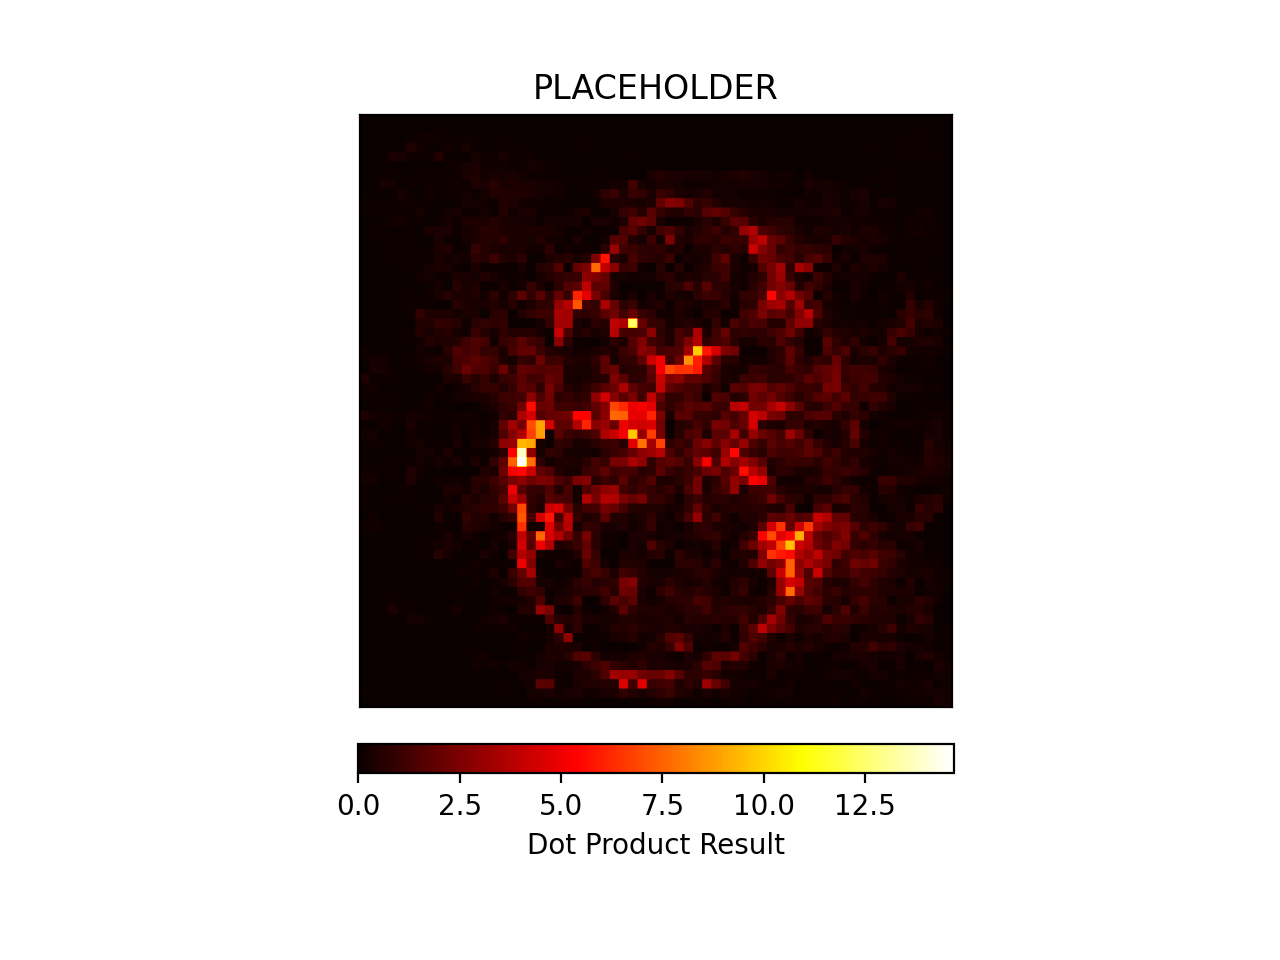
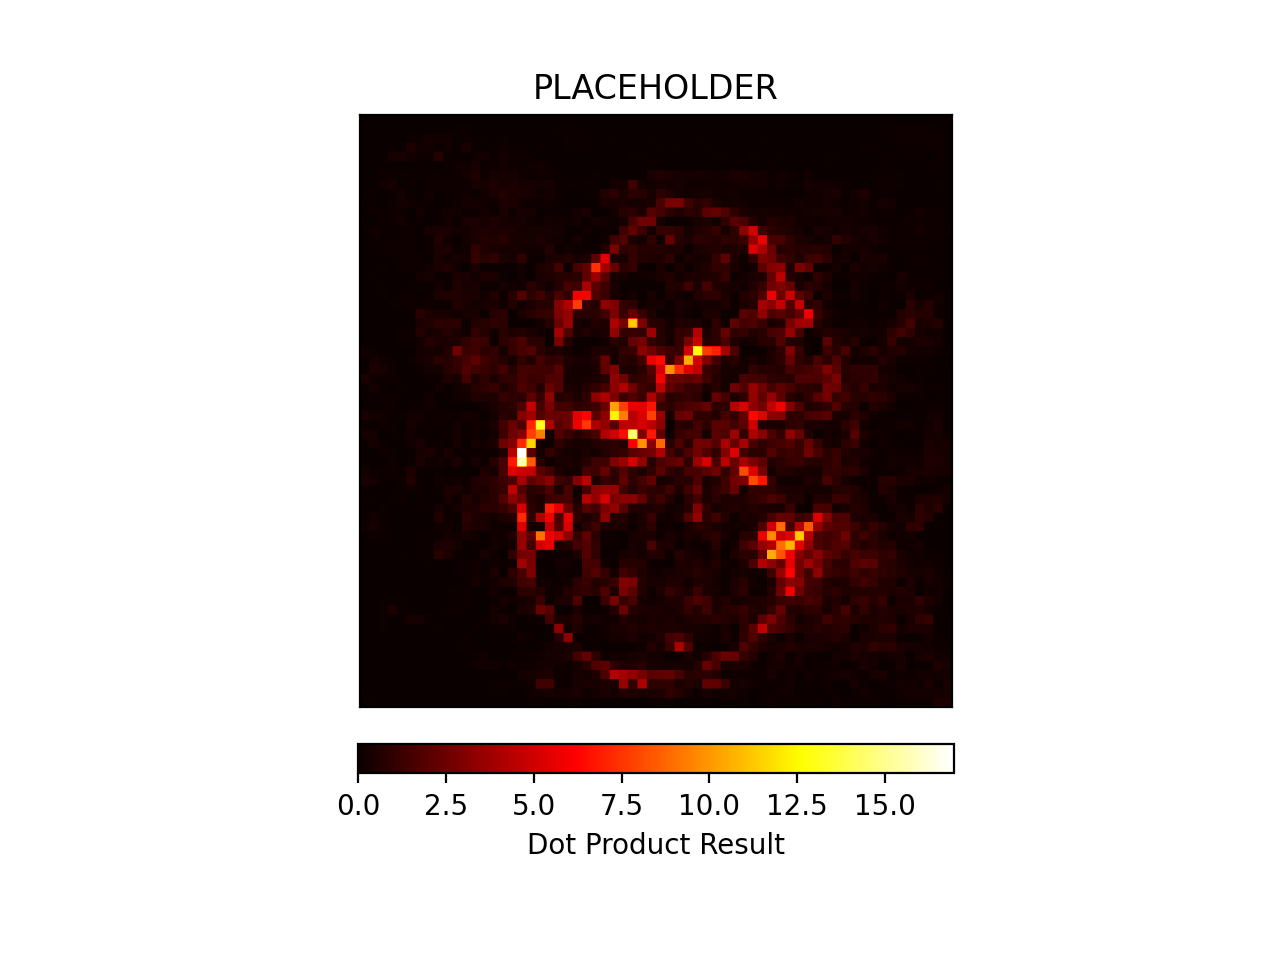
Added flipped division heatmap option + fixed HOG-based vector scaling bug + new corresponding outputs

diff --git a/lamin_role.py b/lamin_role.py
@@ -28,7 +28,7 @@ from lamin_fxns import orientation_analysis,find_avg_px_intensity,pad_img,force_
 inversion = False
 
 # Heatmap normalization method
-normalize = "no"    # Options: "no", "ratio", "max", "division"
+normalize = "no"    # Options: "no", "ratio", "max", "division", "flip_division"
 
 # Vector scaling reference image (original input image OR HOG image)
 vector_scaling = "hog" # Options: "hog", "original"
@@ -195,15 +195,6 @@ hog_image_rescaled = exposure.rescale_intensity(hog_image, in_range=(0,10))
 cv2.imshow(f'HOG Default: frame 1', hog_image_rescaled)
 cv2.waitKey(img_delay)
 
-# Compute and store cell-specific average pixel intensities
-if vector_scaling == "hog":
-    avg_px_intensities = find_avg_px_intensity(hog_image_rescaled,cells_per_row_column,px_per_cell)
-elif vector_scaling == "original":
-    avg_px_intensities = find_avg_px_intensity(prev_gray,cells_per_row_column,px_per_cell)
-else:
-    print("Invalid vector scaling parameter.")
-    sys.exit(0)
-
 # ---------- Image cell manipulation ----------
 # Create the vector data array: one pair of coordinates for each gradient line
 vectors = np.zeros((cells_per_row_column,cells_per_row_column),dtype=object)
@@ -257,6 +248,15 @@ print("Gradient selection success: frame 1")
 # Display the grayscale selected-gradients image
 cv2.imshow('Selected Gradients: frame 1',hog_image_rescaled)
 cv2.waitKey(img_delay)
+
+# Compute and store cell-specific average pixel intensities
+if vector_scaling == "hog":
+    avg_px_intensities = find_avg_px_intensity(hog_image_rescaled,cells_per_row_column,px_per_cell)
+elif vector_scaling == "original":
+    avg_px_intensities = find_avg_px_intensity(prev_gray,cells_per_row_column,px_per_cell)
+else:
+    print("Invalid vector scaling parameter.")
+    sys.exit(0)
 # ---------- Image cell manipulation ----------
 
 # ---------- Generate and display gradient vectors ----------
@@ -400,15 +400,6 @@ while(cap.isOpened()):
     cv2.imshow(f'HOG Default: frame {counter}', hog_image_rescaled)
     cv2.waitKey(img_delay)
 
-    # Compute and store cell-specific average pixel intensities
-    if vector_scaling == "hog":
-        avg_px_intensities = find_avg_px_intensity(hog_image_rescaled,cells_per_row_column,px_per_cell)
-    elif vector_scaling == "original":
-        avg_px_intensities = find_avg_px_intensity(gray,cells_per_row_column,px_per_cell)
-    else:
-        print("Invalid vector scaling parameter.")
-        sys.exit(0)
-
     # Store the "previous" set of vectors for later use to genearte the heatmap
     heatmap_vectors = vectors
 
@@ -465,6 +456,15 @@ while(cap.isOpened()):
     # Display the grayscale selected-gradients image
     cv2.imshow(f'Selected Gradients: frame {counter}',hog_image_rescaled)
     cv2.waitKey(img_delay)
+
+    # Compute and store cell-specific average pixel intensities
+    if vector_scaling == "hog":
+        avg_px_intensities = find_avg_px_intensity(hog_image_rescaled,cells_per_row_column,px_per_cell)
+    elif vector_scaling == "original":
+        avg_px_intensities = find_avg_px_intensity(gray,cells_per_row_column,px_per_cell)
+    else:
+        print("Invalid vector scaling parameter.")
+        sys.exit(0)
     # ---------- Image cell manipulation ----------
 
     # ---------- Generate and display gradient vectors ----------
@@ -596,6 +596,11 @@ while(cap.isOpened()):
         tick_vals = None
         extension="neither"
         colorbar_label="PLACEHOLDER"
+    elif normalize == "flip_division":
+        normalized_result = divide_magnitudes(physical=disp_vectors,temporal=heatmap_vectors) # The reverse of physical and temporal vectors here is intentional.
+        tick_vals = None
+        extension="neither"
+        colorbar_label="PLACEHOLDER"
     else:
         normalized_result = dot_prod_result
         tick_vals = None
@@ -603,21 +608,21 @@ while(cap.isOpened()):
         colorbar_label="Dot Product Result"
 
     # Reconfigure the dot product results for accurate display
-    display_dot_result = np.zeros((len(hog_image_rescaled),len(hog_image_rescaled)))
+    display_result = np.zeros((len(hog_image_rescaled),len(hog_image_rescaled)))
     normalized_result = normalized_result.reshape((cells_per_row_column,cells_per_row_column))
 
     for i in range(cells_per_row_column):
         for j in range(cells_per_row_column):
             for a in range(px_per_cell*i,(px_per_cell*i)+px_per_cell):
                 for b in range(px_per_cell*j,(px_per_cell*j)+px_per_cell):
-                    display_dot_result[a][b] = normalized_result[i][j]
+                    display_result[a][b] = normalized_result[i][j]
 
     # ---------- Heatmap generation ----------
     # Initialize a new figure
     plt.figure()
 
     # Select image for display, as well as colormap used
-    plt.imshow(display_dot_result, cmap="hot")
+    plt.imshow(display_result, cmap="hot")
     
     # Define colorbar parameters
     plt.colorbar(orientation="horizontal",      # Horizontal colorbar

diff --git a/lamin_fxns.py b/lamin_fxns.py
@@ -83,6 +83,11 @@ def divide_magnitudes(physical, temporal):
 	# Convert 0/0 division results (nan) to zero
 	np.nan_to_num(magnitude_quotient,False)
 
+	# Uncomment to limit magnitude values to a certain amount
+	# for i in range(len(magnitude_quotient)):
+	# 	if magnitude_quotient[i] > 50.0:
+	# 		magnitude_quotient[i] = 50.0
+
 	return magnitude_quotient
 
 
